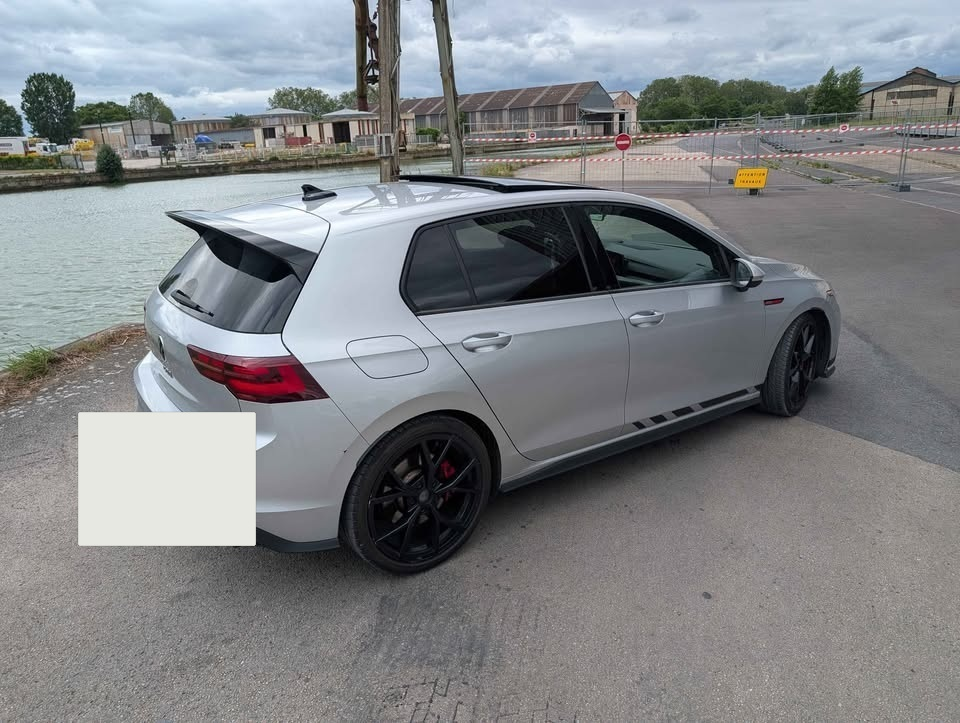
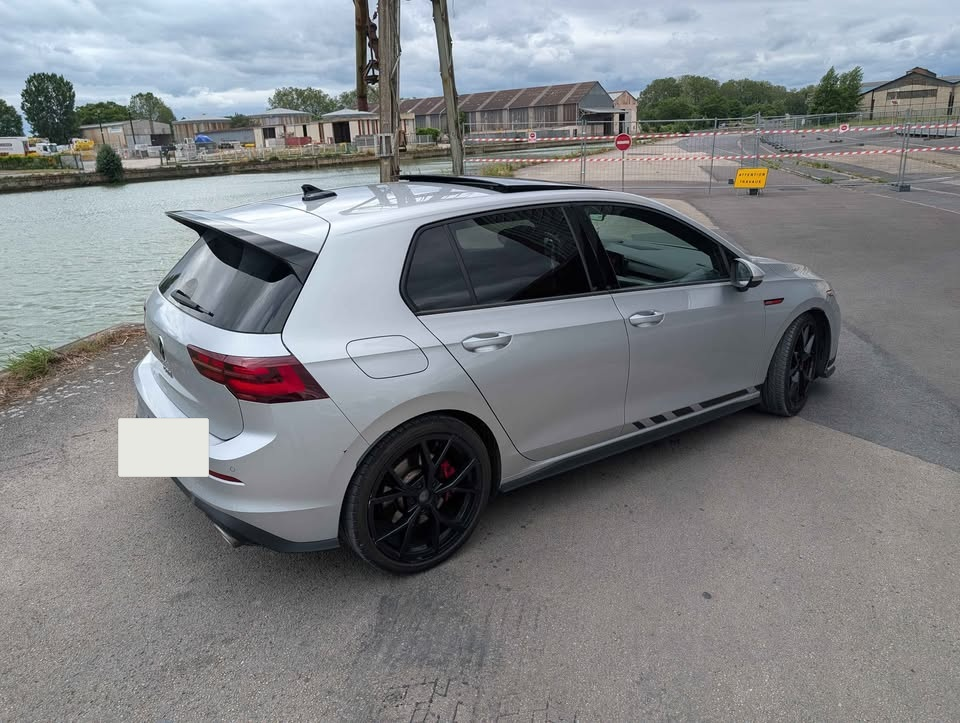
Rebrand the site to KR Location and shrink the Golf GTI plate covers so they match the plate instead of covering the bumper.

Changed region(s): [[0.0625, 0.5477, 0.2812, 0.7607]]

diff --git a/index.html b/index.html
@@ -4,7 +4,7 @@
     <meta charset="UTF-8" />
     <meta name="viewport" content="width=device-width, initial-scale=1.0" />
     <meta name="theme-color" content="#0b0b0b" />
-    <title>Loc Prestige — Location prestige</title>
+    <title>KR Location — Louez l’exception.</title>
     <meta
       name="description"
       content="Location de voitures prestige. Tarifs clairs, remise des clés sur rendez-vous. Réservation par Snapchat ou e-mail."
@@ -15,19 +15,19 @@
       href="https://fonts.googleapis.com/css2?family=Cormorant+Garamond:ital,wght@0,400;0,500;0,600;1,400;1,500;1,600&family=Outfit:wght@300;400;500;600&display=swap"
       rel="stylesheet"
     />
-    <link rel="icon" type="image/png" href="images/logo.png" />
-    <link rel="stylesheet" href="css/styles.css?v=32" />
+    <link rel="icon" type="image/png" href="images/logo.png?v=33" />
+    <link rel="stylesheet" href="css/styles.css?v=33" />
   </head>
   <body>
     <div class="loader" id="pageLoader" aria-hidden="true">
-      <img src="images/logo.png" alt="" />
+      <img src="images/logo.png?v=33" alt="" />
       <span class="loader-line"></span>
     </div>
 
     <header class="header" id="siteHeader">
       <div class="wrap header-inner">
         <a class="logo" href="#top">
-          <img src="images/logo.png" alt="Loc Prestige" />
+          <img src="images/logo.png?v=33" alt="KR Location" />
         </a>
         <nav class="nav" id="siteNav" aria-label="Navigation principale">
           <a href="#flotte">Flotte</a>
@@ -162,7 +162,7 @@
     <section class="promises">
       <div class="wrap">
         <header class="section-head is-dark" data-reveal>
-          <p class="eyebrow">Loc Prestige</p>
+          <p class="eyebrow">KR Location</p>
           <h2>Ce qu’on promet, et ce qu’on ne fait pas.</h2>
         </header>
         <div class="promises-grid">
@@ -223,7 +223,7 @@
           <p class="eyebrow">Contact</p>
           <h2>Par message, sur rendez-vous.</h2>
           <p>
-            Loc Prestige est une location prestige. La remise et le retour des clés
+            KR Location est une agence de location prestige. La remise et le retour des clés
             se font sur rendez-vous, après confirmation du véhicule et des dates.
           </p>
           <ul>
@@ -256,7 +256,7 @@
     <footer class="footer">
       <div class="wrap footer-grid">
         <div class="footer-brand">
-          <img class="footer-logo" src="images/logo.png" alt="Loc Prestige" />
+          <img class="footer-logo" src="images/logo.png?v=33" alt="KR Location" />
           <p>Demande de réservation en ligne</p>
         </div>
         <nav class="footer-nav" aria-label="Pied de page">
@@ -442,7 +442,7 @@
               </label>
               <label class="check is-full">
                 <input type="checkbox" name="consentement" required />
-                <span>J’accepte que Loc Prestige reçoive mes informations et mes pièces (permis et pièce d’identité) par e-mail, uniquement pour traiter cette demande de réservation.</span>
+                <span>J’accepte que KR Location reçoive mes informations et mes pièces (permis et pièce d’identité) par e-mail, uniquement pour traiter cette demande de réservation.</span>
               </label>
             </div>
 
@@ -456,13 +456,13 @@
         <div class="booking-done" id="bookingDone" hidden>
           <p class="eyebrow">Demande envoyée</p>
           <h2>On a bien reçu votre dossier.</h2>
-          <p>Loc Prestige vous écrit pour confirmer les dates et fixer la remise des clés.</p>
+          <p>KR Location vous écrit pour confirmer les dates et fixer la remise des clés.</p>
           <button class="btn" type="button" id="bookingDoneClose">Fermer</button>
         </div>
       </article>
     </dialog>
 
-    <script src="js/vehicles.js?v=32"></script>
-    <script src="js/app.js?v=32"></script>
+    <script src="js/vehicles.js?v=34"></script>
+    <script src="js/app.js?v=34"></script>
   </body>
 </html>

diff --git a/js/vehicles.js b/js/vehicles.js
@@ -141,15 +141,15 @@ const VEHICLES = [
     deposit: 3000,
     featured: true,
     booked: [{ from: "2026-08-21", to: "2026-08-24" }],
-    image: "images/gti/avant.jpg",
+    image: "images/gti/avant.jpg?v=34",
     images: [
-      "images/gti/avant.jpg",
-      "images/gti/avant-2.jpg",
-      "images/gti/arriere.jpg",
-      "images/gti/profil.jpg",
-      "images/gti/rue.jpg",
-      "images/gti/interieur.jpg",
-      "images/gti/phare.jpg",
+      "images/gti/avant.jpg?v=34",
+      "images/gti/avant-2.jpg?v=34",
+      "images/gti/arriere.jpg?v=34",
+      "images/gti/profil.jpg?v=34",
+      "images/gti/rue.jpg?v=34",
+      "images/gti/interieur.jpg?v=34",
+      "images/gti/phare.jpg?v=34",
     ],
     blurb:
       "La GTI qu’on attend : 245 ch, DSG, toit ouvrant, étriers rouges. Plus facile au quotidien que l’RS3, tout aussi fun sur route. Idéale pour un mariage, un départ en week-end ou se faire plaisir sans prendre un bolide trop extrême.",

diff --git a/js/app.js b/js/app.js
@@ -177,7 +177,7 @@ function mailHref(car) {
       ? `Location ${car} — ${formatLong(state.from)} au ${formatLong(state.to)}`
       : car
         ? `Location ${car}`
-        : "Location Loc Prestige"
+        : "Location KR Location"
   );
   const body = encodeURIComponent(
     car && state.from && state.to
@@ -843,7 +843,7 @@ function missingRequired() {
 function bookingMailto(v, form) {
   const subject = encodeURIComponent(`Demande de location — ${v.name} — ${formatLong(state.from)} au ${formatLong(state.to)}`);
   const body = encodeURIComponent(
-    `Demande de location Loc Prestige\n\n` +
+    `Demande de location KR Location\n\n` +
       `Véhicule : ${v.name}\n` +
       `Prise en charge : ${formatLong(state.from)}\n` +
       `Retour : ${formatLong(state.to)}\n\n` +
